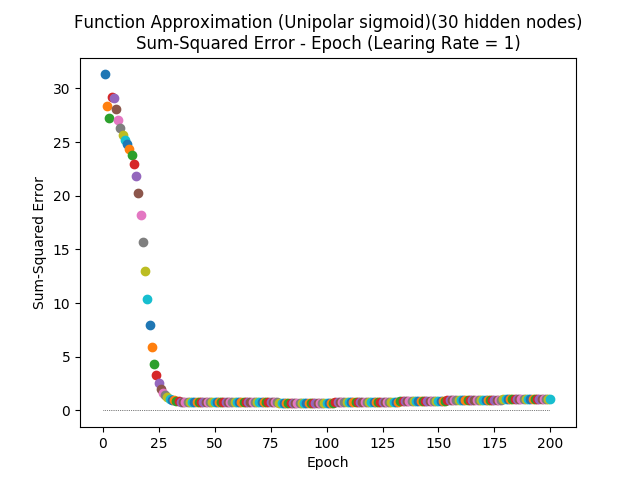
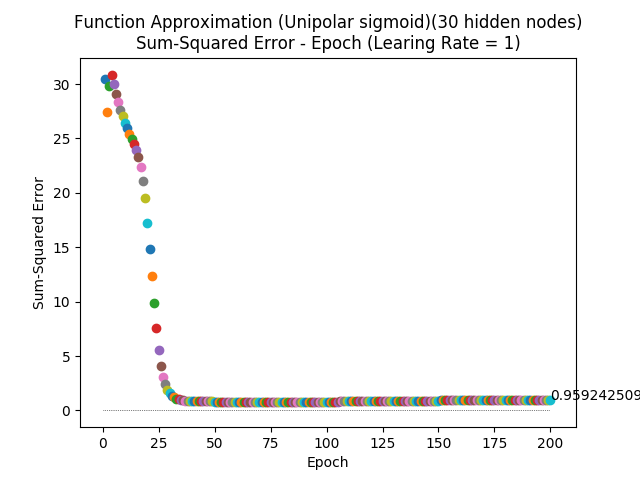
tanh and bipolar not working

diff --git a/HW4/problem_1_revised.py b/HW4/problem_1_revised.py
@@ -29,8 +29,11 @@ class neuralNetwork:
         self.lr = learningrate
         
         # activation function: sigmoid 
-        self.activation_function = lambda x: scipy.special.expit(x)  # unipolar
-        # self.activation_function = lambda x: 2 * scipy.special.expit(x) - 1  # Bipolar
+        #self.activation_function = lambda x: scipy.special.expit(x)  # unipolar
+        self.activation_function = lambda x: 2 * scipy.special.expit(x) - 1  # Bipolar
+        #self.activation_function = lambda x: np.tanh(x)  # tanh
+
+        self.tanh_deriv = lambda x: 1.0 - np.tanh(x)**2
         
         pass
 
@@ -46,15 +49,19 @@ class neuralNetwork:
         xk = np.dot(self.wjk, yj)
         yk = self.activation_function(xk)
 
-        delta_k = (targets - yk) * yk * (1 - yk)  # (self.k x 1) element-wise multiplication
-        
+        #delta_k = (targets - yk) * yk * (1 - yk)  # (self.k x 1) element-wise multiplication
+        delta_k = (targets - yk) * (1 - yk * yk)/2  # bipolar
+        #delta_k = (targets - yk) * self.tanh_deriv(yk)  # tanh
+
         # option 1: from "Make Your Own Neural Network" 
         self.wjk += self.lr * np.dot(delta_k, np.transpose(yj))  
-        delta_j = np.dot(np.transpose(self.wjk), (targets - yk)) * yj * (1 - yj)  
+        #delta_j = np.dot(np.transpose(self.wjk), (targets - yk)) * yj * (1 - yj)  
+        delta_j = np.dot(np.transpose(self.wjk), (targets - yk)) * (1 - yj * yj)/2  # bipolar
+        #delta_j = np.dot(np.transpose(self.wjk), (targets - yk)) * self.tanh_deriv(yk)  # tanh 
 
         # option 2: from lecure notes
         #self.wjk += self.lr * np.dot(delta_k, np.transpose(yj))  
-        #delta_j = np.dot(np.transpose(self.wjk), delta_k) * yj * (1 - yj)  
+        #delta_j = np.dot(np.transpose(self.wjk), delta_k) * yj * (1 - yj)
 
         self.wij += self.lr * np.dot(delta_j, np.transpose(xi))
 
@@ -96,6 +103,10 @@ class neuralNetwork:
                 sum_squared_errors += (self.query(inputs_list[i])-targets_list[i])**2
 
             plt.scatter(x+1, sum_squared_errors)
+
+            # label the last error
+            if x == (epoch - 1):
+                plt.annotate(sum_squared_errors[0, 0], (x+1, sum_squared_errors))
 
         # plot error = 0 line
         plt.plot(np.linspace(0,epoch,epoch), [0]*epoch, 'k:', linewidth=0.5)
